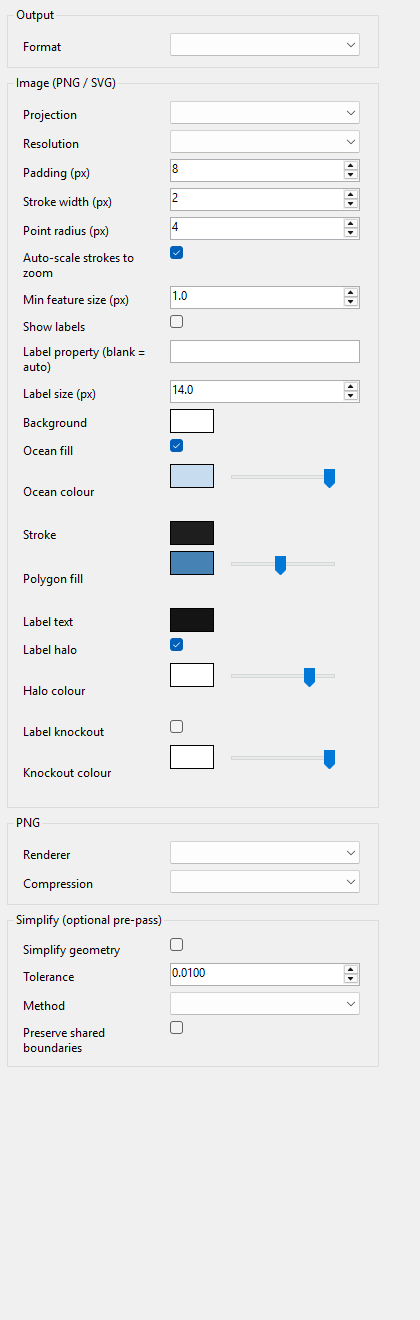
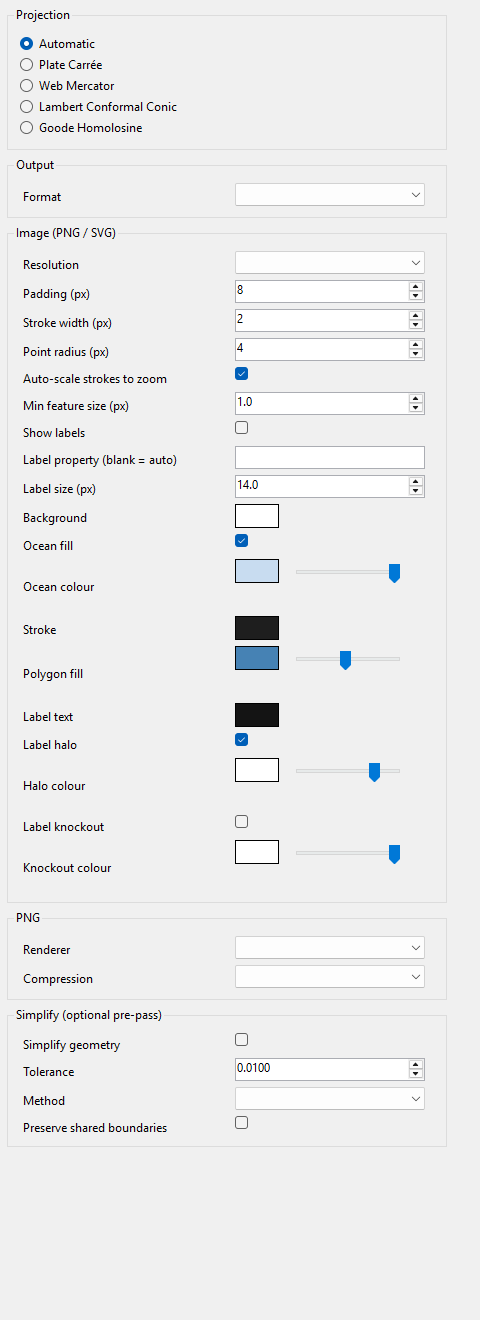
.

diff --git a/src/GeoConvert.App/Ui/OptionsPanel.cs b/src/GeoConvert.App/Ui/OptionsPanel.cs
@@ -36,6 +36,7 @@ sealed class OptionsPanel : FlowLayoutPanel
         AutoScroll = true;
         Padding = new(4);
 
+        BuildProjectionSection();
         BuildOutputSection();
         BuildImageSection();
         BuildPngSection();
@@ -61,6 +62,14 @@ sealed class OptionsPanel : FlowLayoutPanel
 
     // --- sections ---
 
+    void BuildProjectionSection()
+    {
+        // Above Output and always shown: the projection drives the live preview too, not just the
+        // PNG/SVG export, so it stays available whatever the chosen output format.
+        BeginSection("Projection");
+        AddRadioGroup(OptionChoices.Projections, render.Projection, _ => render.Projection = _);
+    }
+
     void BuildOutputSection()
     {
         BeginSection("Output");
@@ -82,7 +91,6 @@ sealed class OptionsPanel : FlowLayoutPanel
     void BuildImageSection()
     {
         imageSection = BeginSection("Image (PNG / SVG)");
-        AddCombo("Projection", OptionChoices.Projections, render.Projection, _ => render.Projection = _);
         AddCombo("Resolution", OptionChoices.Dimensions, render.MaxDimension, _ => render.MaxDimension = _);
         AddInt("Padding (px)", 0, 500, render.Padding, _ => render.Padding = _);
         AddInt("Stroke width (px)", 0, 50, render.StrokeWidth, _ => render.StrokeWidth = _);
@@ -149,7 +157,7 @@ sealed class OptionsPanel : FlowLayoutPanel
         var note = new Label
         {
             AutoSize = true,
-            MaximumSize = new(330, 0),
+            MaximumSize = new(400, 0),
             Margin = new(3),
             Text = "This format writes geometry and properties directly. Use the Simplify section above to thin vertices before writing.",
         };
@@ -180,7 +188,7 @@ sealed class OptionsPanel : FlowLayoutPanel
             Dock = DockStyle.Top,
             Padding = new(4),
         };
-        table.ColumnStyles.Add(new(SizeType.Absolute, 150));
+        table.ColumnStyles.Add(new(SizeType.Absolute, 215));
         table.ColumnStyles.Add(new(SizeType.Absolute, 200));
 
         var box = new GroupBox
@@ -191,8 +199,8 @@ sealed class OptionsPanel : FlowLayoutPanel
             // Pin the width (Min == Max), leaving only the height to AutoSize. Without this an AutoSize
             // GroupBox wrapping a Dock=Top table can't resolve its width (each defers to the other) and
             // collapses to a sliver.
-            MinimumSize = new(372, 0),
-            MaximumSize = new(372, 0),
+            MinimumSize = new(440, 0),
+            MaximumSize = new(440, 0),
             Margin = new(3),
             Padding = new(6, 3, 6, 6),
         };
@@ -210,10 +218,52 @@ sealed class OptionsPanel : FlowLayoutPanel
             AutoSize = true,
             Anchor = AnchorStyles.Left,
             Margin = new(3, 7, 3, 3),
-            MaximumSize = new(145, 0),
+            MaximumSize = new(210, 0),
         };
         currentTable.Controls.Add(caption);
         currentTable.Controls.Add(control);
+    }
+
+    // A full-width column of mutually-exclusive radio buttons (one container => one radio group). Used
+    // where a choice reads better laid out than hidden in a dropdown — e.g. the projection.
+    void AddRadioGroup<T>(IReadOnlyList<(T Value, string Label)> choices, T current, Action<T> set, bool affectsPreview = true)
+        where T : notnull
+    {
+        var group = new FlowLayoutPanel
+        {
+            FlowDirection = FlowDirection.TopDown,
+            WrapContents = false,
+            AutoSize = true,
+            AutoSizeMode = AutoSizeMode.GrowAndShrink,
+            Margin = new(3),
+        };
+        foreach (var (value, text) in choices)
+        {
+            var radio = new RadioButton
+            {
+                Text = text,
+                AutoSize = true,
+                Checked = EqualityComparer<T>.Default.Equals(value, current),
+                Margin = new(0, 1, 0, 1),
+            };
+            radio.CheckedChanged += (_, _) =>
+            {
+                if (!radio.Checked)
+                {
+                    return;
+                }
+
+                set(value);
+                if (affectsPreview)
+                {
+                    RaiseChanged();
+                }
+            };
+            group.Controls.Add(radio);
+        }
+
+        currentTable.Controls.Add(group);
+        currentTable.SetColumnSpan(group, 2);
     }
 
     ComboBox AddCombo<T>(string label, IReadOnlyList<(T Value, string Label)> choices, T current, Action<T> set, bool affectsPreview = true)

diff --git a/src/GeoConvert.App.Tests/OptionsPanelTests.cs b/src/GeoConvert.App.Tests/OptionsPanelTests.cs
@@ -6,14 +6,15 @@ public class OptionsPanelTests
 {
     [Test]
     public Task Kml() =>
-        // A plain vector format: only the Output, Simplify and format-note sections show.
-        Verify(WinFormsSnapshot.Render(() => Panel(GeoFormat.Kml), 420, 380));
+        // A plain vector format: the always-on Projection radios plus the Output, Simplify and
+        // format-note sections (no image options).
+        Verify(WinFormsSnapshot.Render(() => Panel(GeoFormat.Kml), 480, 560));
 
     [Test]
     public Task Png() =>
         // The image formats reveal the full render-options section (projection, strokes, labels, colours)
         // plus the PNG sub-section, so this covers most of the options UI and its show/hide logic.
-        Verify(WinFormsSnapshot.Render(() => Panel(GeoFormat.Png), 420, 1320));
+        Verify(WinFormsSnapshot.Render(() => Panel(GeoFormat.Png), 480, 1320));
 
     static OptionsPanel Panel(GeoFormat format)
     {

diff --git a/src/GeoConvert.App/Program.cs b/src/GeoConvert.App/Program.cs
@@ -2,7 +2,13 @@ namespace GeoConvert.App;
 
 static class Program
 {
-    static readonly SettingsManager settingsManager = new(SettingsManager.DefaultSettingsPath);
+    // The GEOCONVERT_SETTINGS environment variable overrides where settings live — used by tests and
+    // screenshot tooling so they never touch the real per-user settings file (which gates the one-time
+    // association prompt).
+    static readonly SettingsManager settingsManager = new(
+        Environment.GetEnvironmentVariable("GEOCONVERT_SETTINGS") is { Length: > 0 } path
+            ? path
+            : SettingsManager.DefaultSettingsPath);
 
     [STAThread]
     static int Main(string[] args)

diff --git a/src/GeoConvert.App/Ui/MainForm.cs b/src/GeoConvert.App/Ui/MainForm.cs
@@ -28,9 +28,9 @@ sealed class MainForm : Form
     int previewToken;
     bool busy;
 
-    // Fixed width, in pixels, of the right-hand options column (wide enough for the 372px option groups
+    // Fixed width, in pixels, of the right-hand options column (wide enough for the 440px option groups
     // plus the scrollbar, so no horizontal scroll appears).
-    const int optionsWidth = 420;
+    const int optionsWidth = 480;
 
     public MainForm(SettingsManager settingsManager, string? initialFile)
     {
